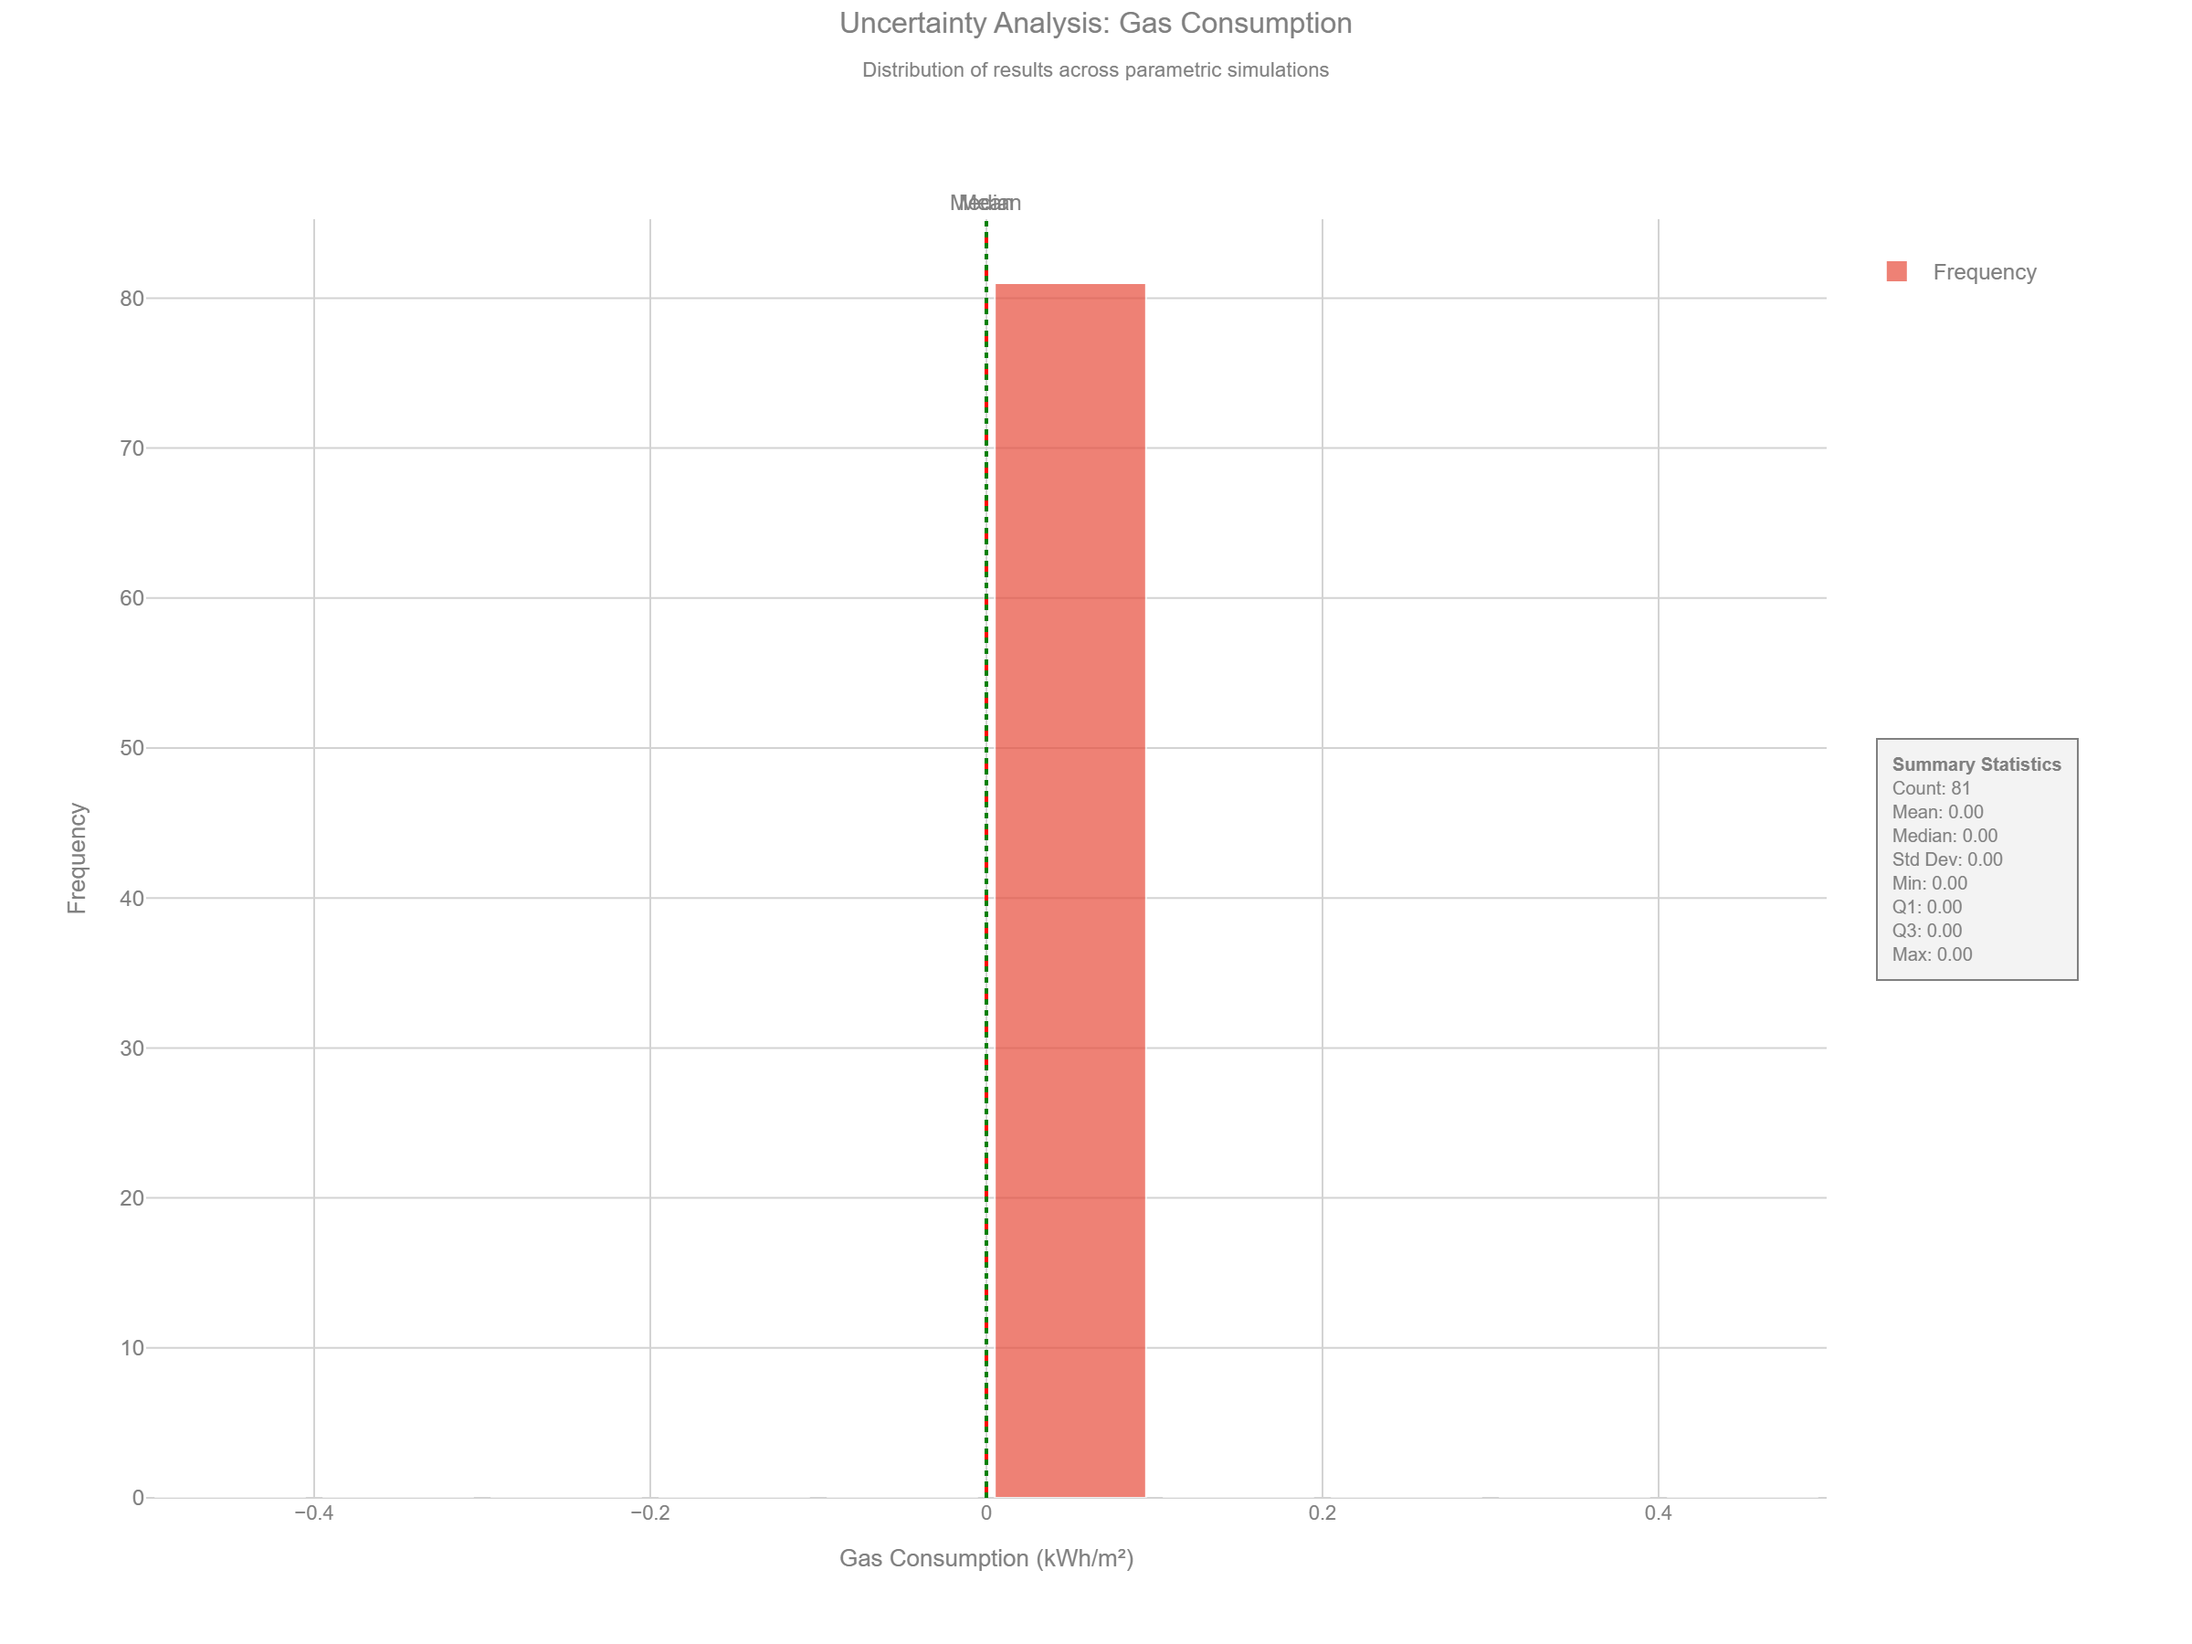
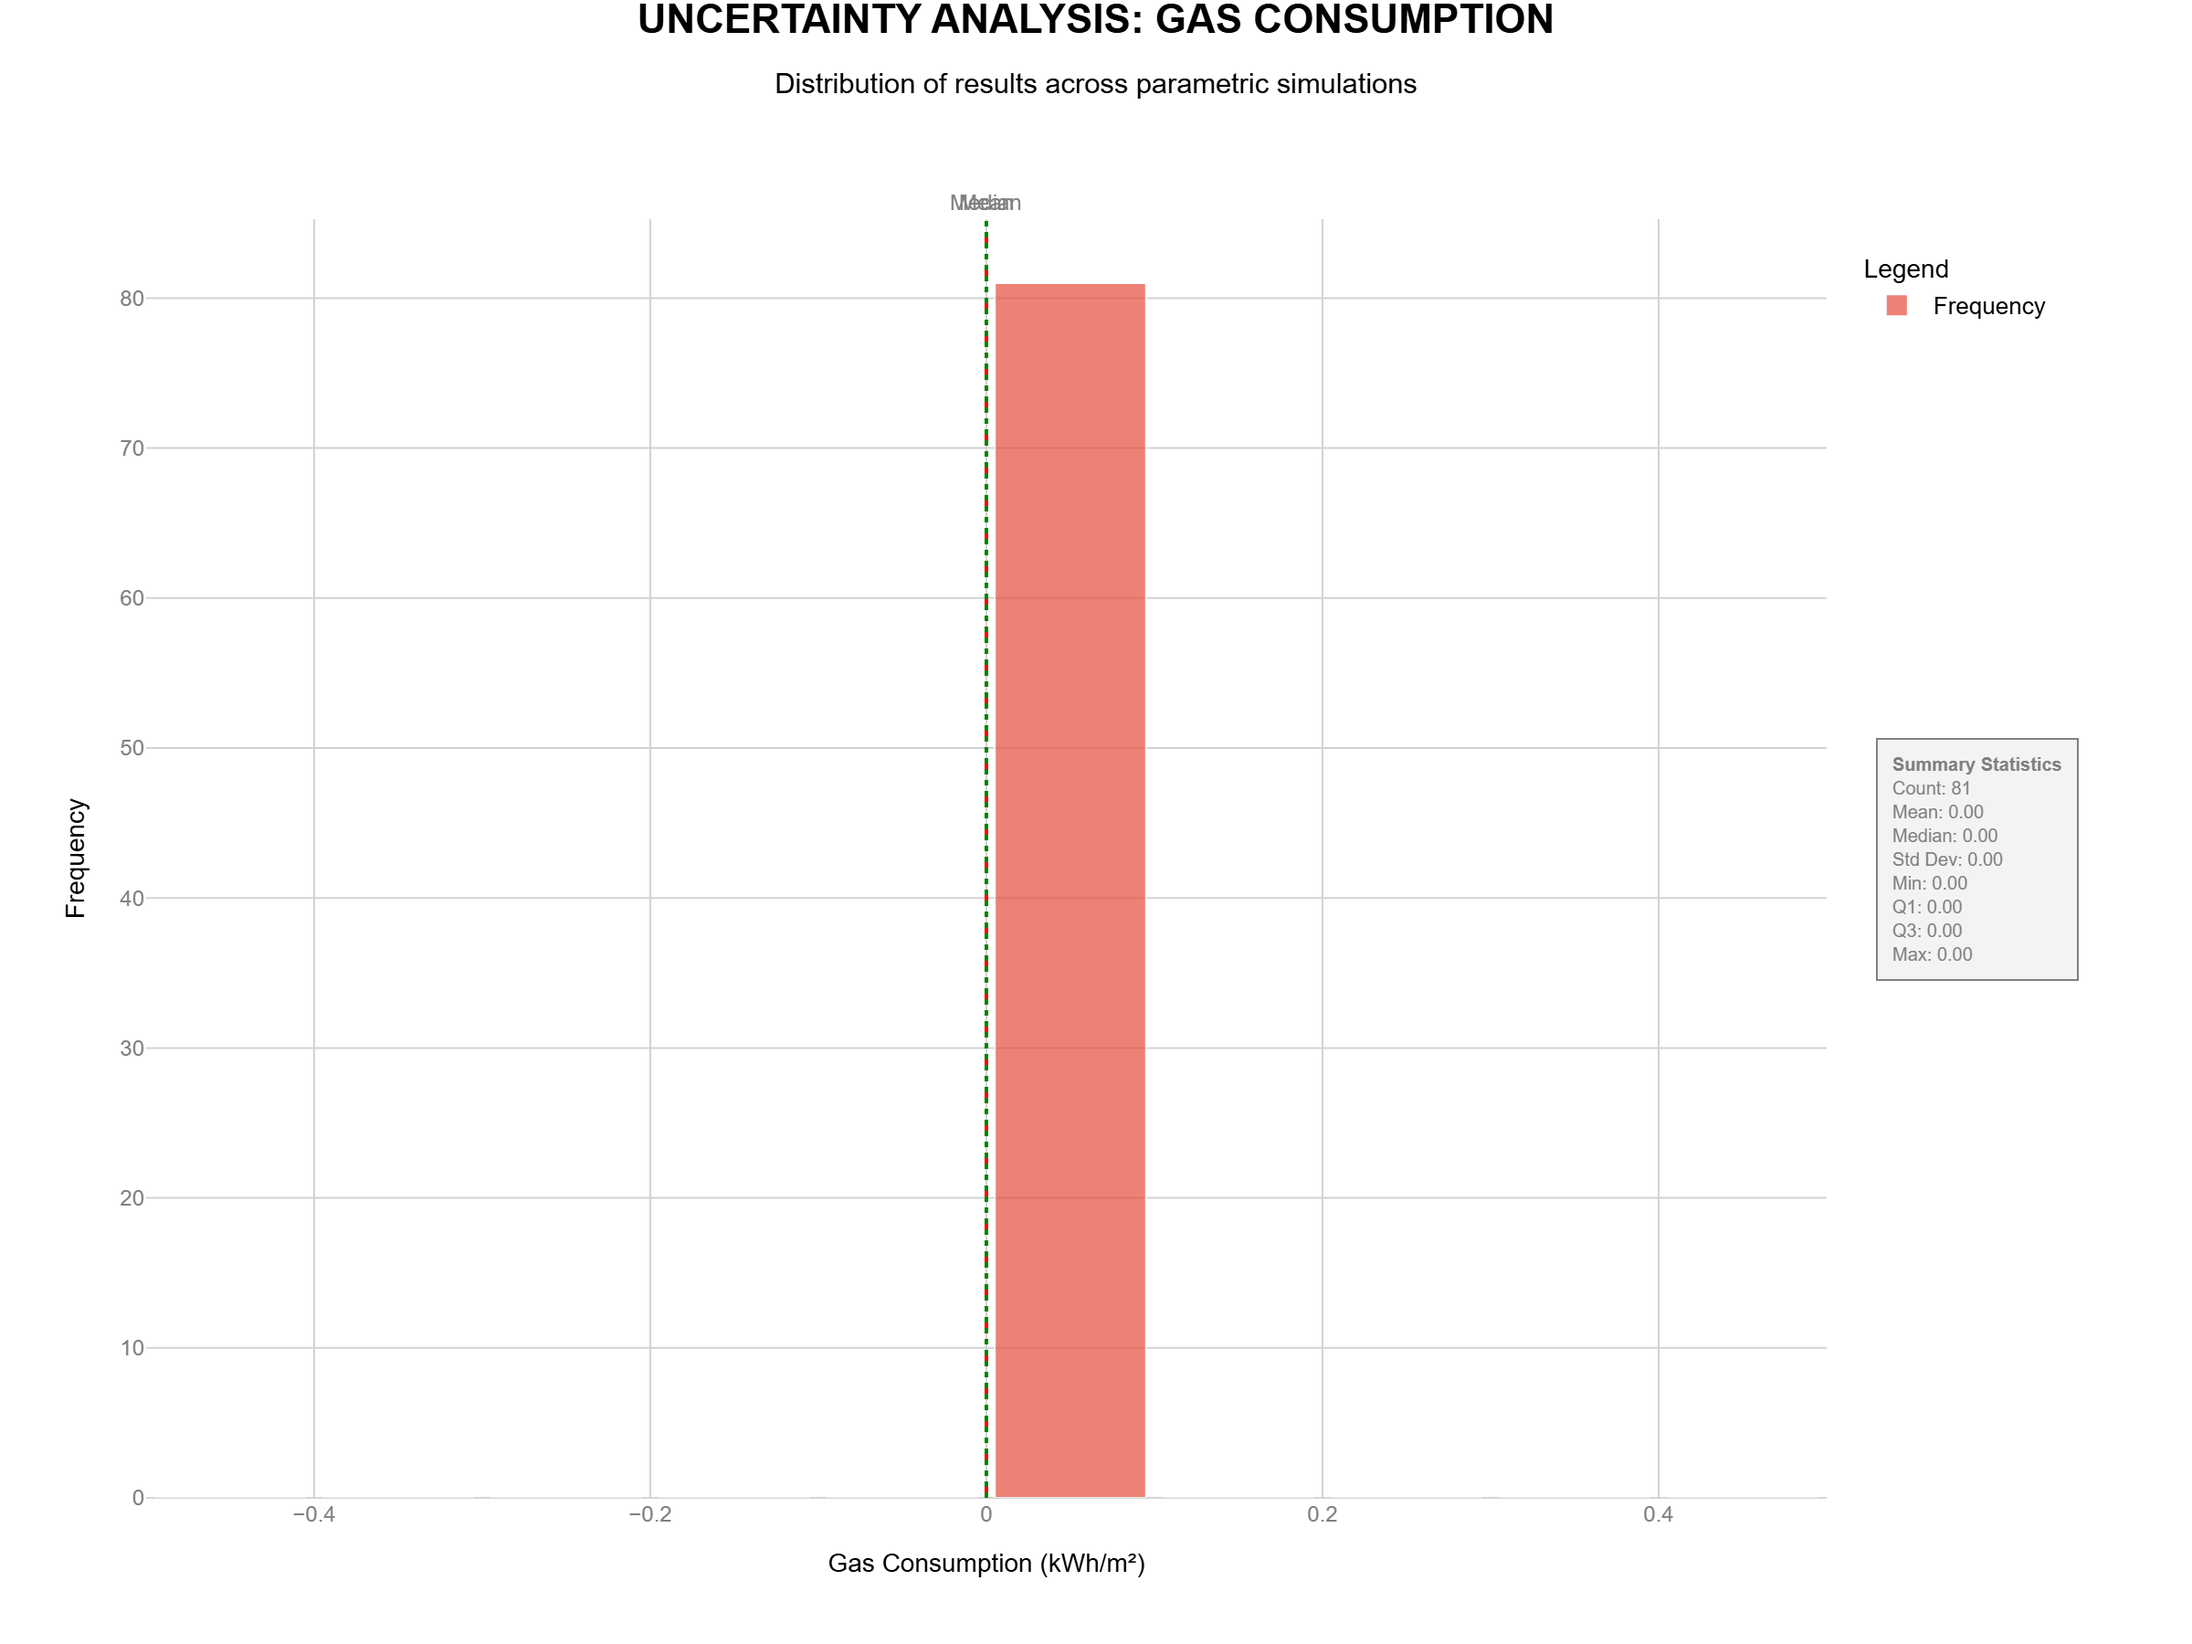
titulosComprobarsiokay

diff --git a/Genetic_and_parametric_analysis_scripts_ModMavi/charting/chart_sensitivity_tm54.py b/Genetic_and_parametric_analysis_scripts_ModMavi/charting/chart_sensitivity_tm54.py
@@ -266,18 +266,18 @@ def create_tm54_sensitivity_chart(plot_data, target_metric, colors_map):
     # Actualizar layout
     fig.update_layout(
         title={
-            'text': f'Sensitivity Analysis: Impact on {target_metric}<br>'
+            'text': f'<b>SENSITIVITY ANALYSIS: IMPACT ON {target_metric.upper()}</b><br>'
                    f'<sub>Standardized Regression Coefficient (SRC)</sub>',
             'x': 0.5,
             'xanchor': 'center',
             'y': 0.98,
             'yanchor': 'top',
-            'font': {'size': 16, 'family': 'Arial'}
+            'font': {'size': 22, 'family': 'Arial', 'color': 'black'}
         },
         xaxis=dict(
             title=dict(
                 text='Standardized Regression Coefficient (SRC)',
-                font=dict(size=12, family='Arial', color='gray')
+                font=dict(size=14, family='Arial', color='black')
             ),
             showgrid=True,
             gridwidth=1,
@@ -290,7 +290,7 @@ def create_tm54_sensitivity_chart(plot_data, target_metric, colors_map):
         yaxis=dict(
             title='',
             showgrid=False,
-            tickfont=dict(size=11, family='Arial', color='gray')
+            tickfont=dict(size=13, family='Arial', color='black')
         ),
         font={'size': 12, 'family': 'Arial', 'color': 'gray'},
         plot_bgcolor='white',
@@ -354,24 +354,24 @@ def create_tm54_sensitivity_chart_vertical(plot_data, target_metric, colors_map)
     # Actualizar layout
     fig.update_layout(
         title={
-            'text': f'Sensitivity Analysis: Impact on {target_metric}<br>'
+            'text': f'<b>SENSITIVITY ANALYSIS: IMPACT ON {target_metric.upper()}</b><br>'
                    f'<sub>Standardized Regression Coefficient (SRC)</sub>',
             'x': 0.5,
             'xanchor': 'center',
             'y': 0.98,
             'yanchor': 'top',
-            'font': {'size': 16, 'family': 'Arial'}
+            'font': {'size': 22, 'family': 'Arial', 'color': 'black'}
         },
         xaxis=dict(
             title='',
             showgrid=False,
-            tickfont=dict(size=11, family='Arial', color='gray'),
+            tickfont=dict(size=13, family='Arial', color='black'),
             tickangle=-45  # Rotar etiquetas para mejor legibilidad
         ),
         yaxis=dict(
             title=dict(
                 text='Standardized Regression Coefficient (SRC)',
-                font=dict(size=12, family='Arial', color='gray')
+                font=dict(size=14, family='Arial', color='black')
             ),
             showgrid=True,
             gridwidth=1,

diff --git a/Genetic_and_parametric_analysis_scripts_ModMavi/charting/chart_uncertainty_enduse.py b/Genetic_and_parametric_analysis_scripts_ModMavi/charting/chart_uncertainty_enduse.py
@@ -192,28 +192,28 @@ def create_tm54_uncertainty_chart(plot_data, end_use_config):
     # Actualizar layout
     fig.update_layout(
         title={
-            'text': 'Uncertainty Analysis: Energy Use by End Use Category<br>'
+            'text': '<b>UNCERTAINTY ANALYSIS: ENERGY USE BY END USE CATEGORY</b><br>'
                    '<sub>Distribution of energy consumption across parametric simulations</sub>',
             'x': 0.5,
             'xanchor': 'center',
             'y': 0.98,
             'yanchor': 'top',
-            'font': {'size': 16, 'family': 'Arial'}
+            'font': {'size': 22, 'family': 'Arial', 'color': 'black'}
         },
         xaxis=dict(
             title=dict(
                 text='End Use Category',
-                font=dict(size=12, family='Arial', color='gray')
+                font=dict(size=14, family='Arial', color='black')
             ),
             showgrid=True,
             gridwidth=1,
             gridcolor='lightgray',
-            tickfont=dict(size=11, family='Arial', color='gray')
+            tickfont=dict(size=12, family='Arial', color='gray')
         ),
         yaxis=dict(
             title=dict(
-                text='Energy Use Intensity (kWh/m2/annum)',
-                font=dict(size=12, family='Arial', color='gray')
+                text='Energy Use Intensity (kWh/m²/annum)',
+                font=dict(size=14, family='Arial', color='black')
             ),
             showgrid=True,
             gridwidth=1,
@@ -235,7 +235,9 @@ def create_tm54_uncertainty_chart(plot_data, end_use_config):
             yanchor='bottom',
             y=1.02,
             xanchor='right',
-            x=1
+            x=1,
+            font=dict(size=13, family='Arial', color='black'),
+            title=dict(text='Category', font=dict(size=14, family='Arial'))
         )
     )
     

diff --git a/Genetic_and_parametric_analysis_scripts_ModMavi/charting/chart_uncertainty_histogram.py b/Genetic_and_parametric_analysis_scripts_ModMavi/charting/chart_uncertainty_histogram.py
@@ -168,28 +168,28 @@ def create_uncertainty_histogram(metric_key, metric_config, values):
     # Actualizar layout
     fig.update_layout(
         title={
-            'text': f'Uncertainty Analysis: {metric_config["display_name"]}<br>'
+            'text': f'<b>UNCERTAINTY ANALYSIS: {metric_config["display_name"].upper()}</b><br>'
                    '<sub>Distribution of results across parametric simulations</sub>',
             'x': 0.5,
             'xanchor': 'center',
             'y': 0.98,
             'yanchor': 'top',
-            'font': {'size': 16, 'family': 'Arial'}
+            'font': {'size': 22, 'family': 'Arial', 'color': 'black'}
         },
         xaxis=dict(
             title=dict(
                 text=f'{metric_config["display_name"]} ({metric_config["unit"]})',
-                font=dict(size=13, family='Arial', color='gray')
+                font=dict(size=14, family='Arial', color='black')
             ),
             showgrid=True,
             gridwidth=1,
             gridcolor='lightgray',
-            tickfont=dict(size=11, family='Arial', color='gray')
+            tickfont=dict(size=12, family='Arial', color='gray')
         ),
         yaxis=dict(
             title=dict(
                 text='Frequency',
-                font=dict(size=13, family='Arial', color='gray')
+                font=dict(size=14, family='Arial', color='black')
             ),
             showgrid=True,
             gridwidth=1,
@@ -210,7 +210,9 @@ def create_uncertainty_histogram(metric_key, metric_config, values):
             yanchor='top',
             y=0.98,
             xanchor='left',
-            x=1.02
+            x=1.02,
+            font=dict(size=13, family='Arial', color='black'),
+            title=dict(text='Legend', font=dict(size=14, family='Arial'))
         )
     )
     
